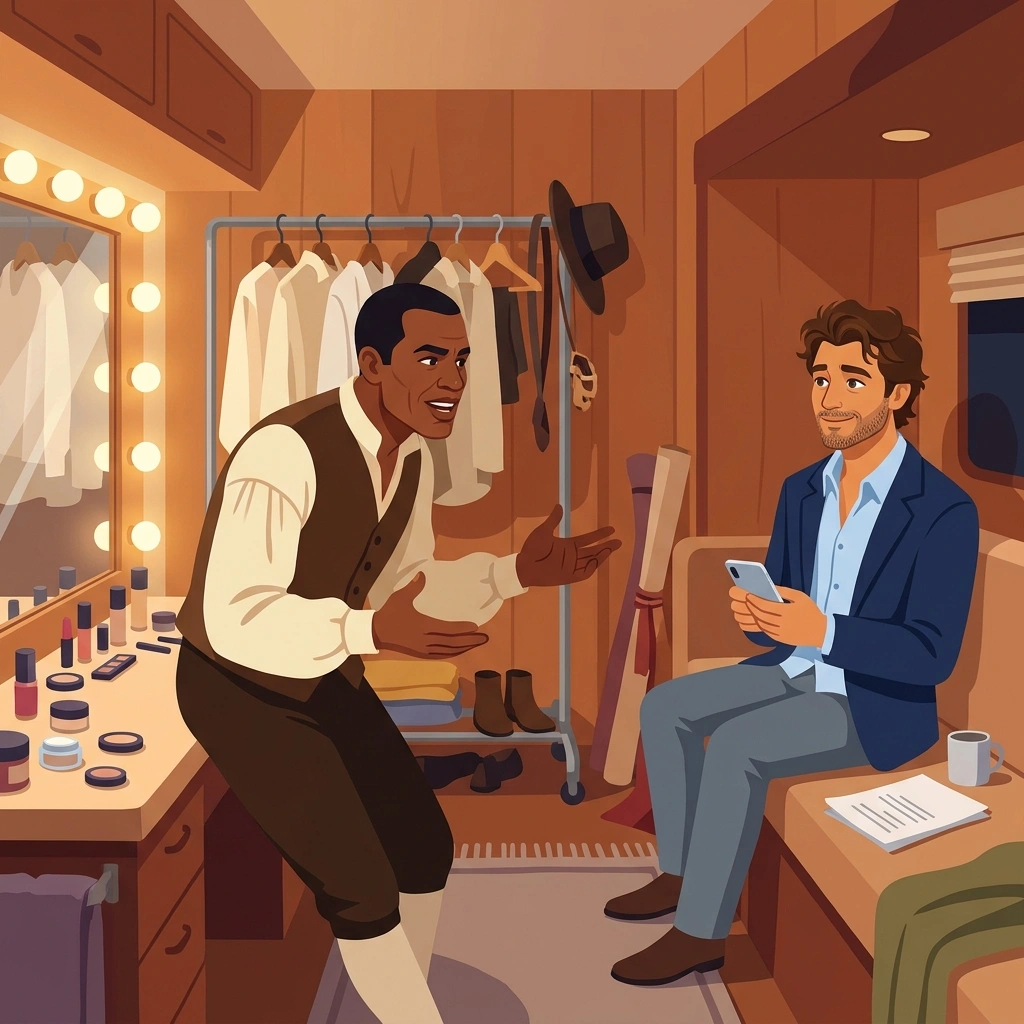
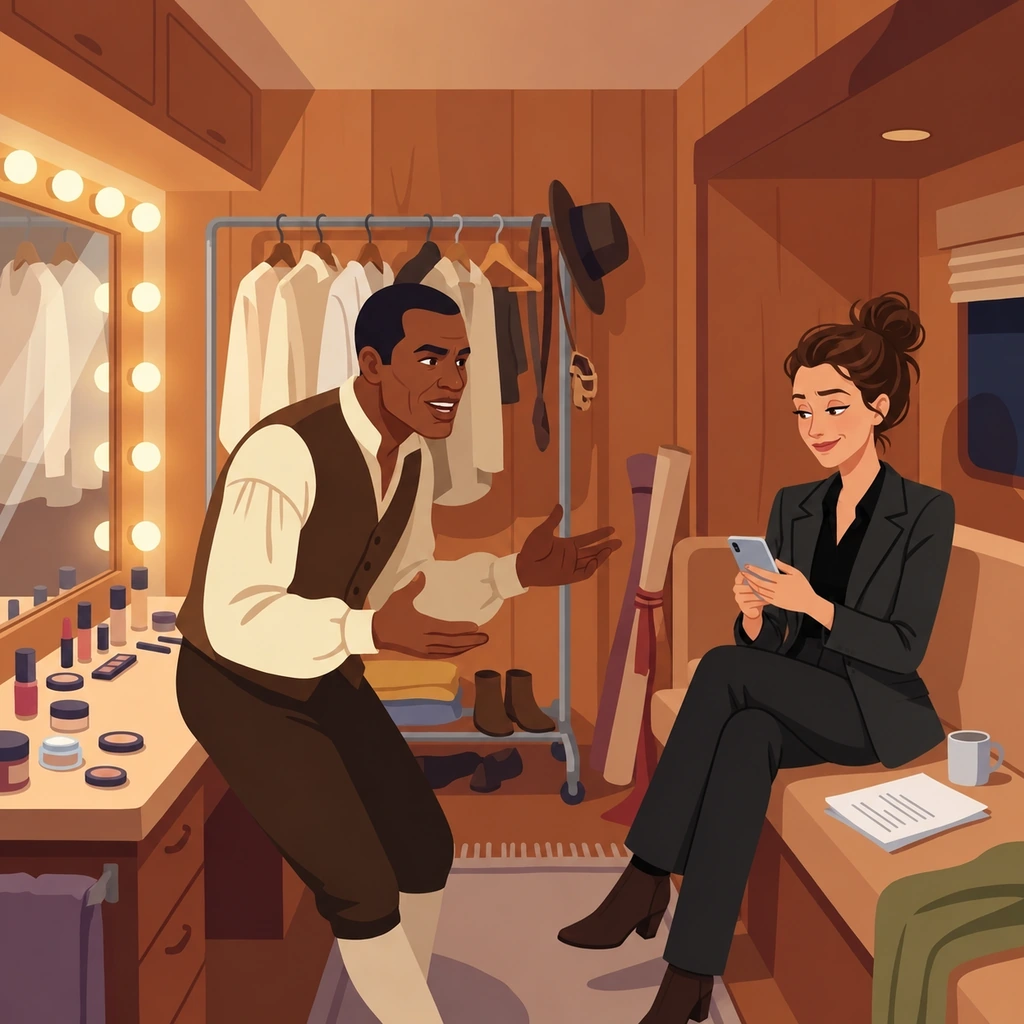
Match S01E05 illustrations to source-verified roles and scenes

Changed region(s): [[0.5312, 0.2812, 1.0, 1.0], [0.0938, 0.625, 0.125, 0.6562]]

diff --git a/out/dix-pour-cent/s01e05/EDITORIAL-REVIEW.md b/out/dix-pour-cent/s01e05/EDITORIAL-REVIEW.md
@@ -65,3 +65,16 @@ CPU-extracted private source frames, burned bilingual subtitles and denser one-f
 - 17: Checked the surprise, bath, injury aftermath and departure against source frames; roles and revised walkthrough order agree.
 
 Scripts/notes 02–11, 13–15 and 17 are reapproved for rendering after these changes. Artwork 06, 07, 08, 11, 12, 13, 14 and 15 is held for necessary role/scene corrections. Scene 12 remains held for its short speaker check as well. Episode validator: 0 errors; proper-name accent warnings and later unreviewed lessons remain.
+
+## Art correction after primary-video role audit
+
+Used the built-in imagegen edit tool for exactly the eight necessary affected illustrations, with inspected established character references. Final 1024×1024 WebP files were viewed together after conversion.
+
+- 06 and 14: Gabriel advises Julie.
+- 07 and 15: Andrea talks with/encourages JoeyStarr.
+- 08: removed the invented background Andrea/Julie tea scene.
+- 11: replaced the invented greenhouse/ladder image with JoeyStarr's borrowed-phone excuse at the restaurant table, watched by Julie.
+- 12: removed the unsupported dog on the armchair.
+- 13: Noémie presents the proposed notice to Mathias; removed the invented Hervé/Camille staging.
+
+These eight illustrations are approved for their corrected lesson scripts. Full prompts and built-in-tool provenance are recorded in `ART-REVIEW.json`. The independent source-audio/register check continues and is a separate publication gate.
